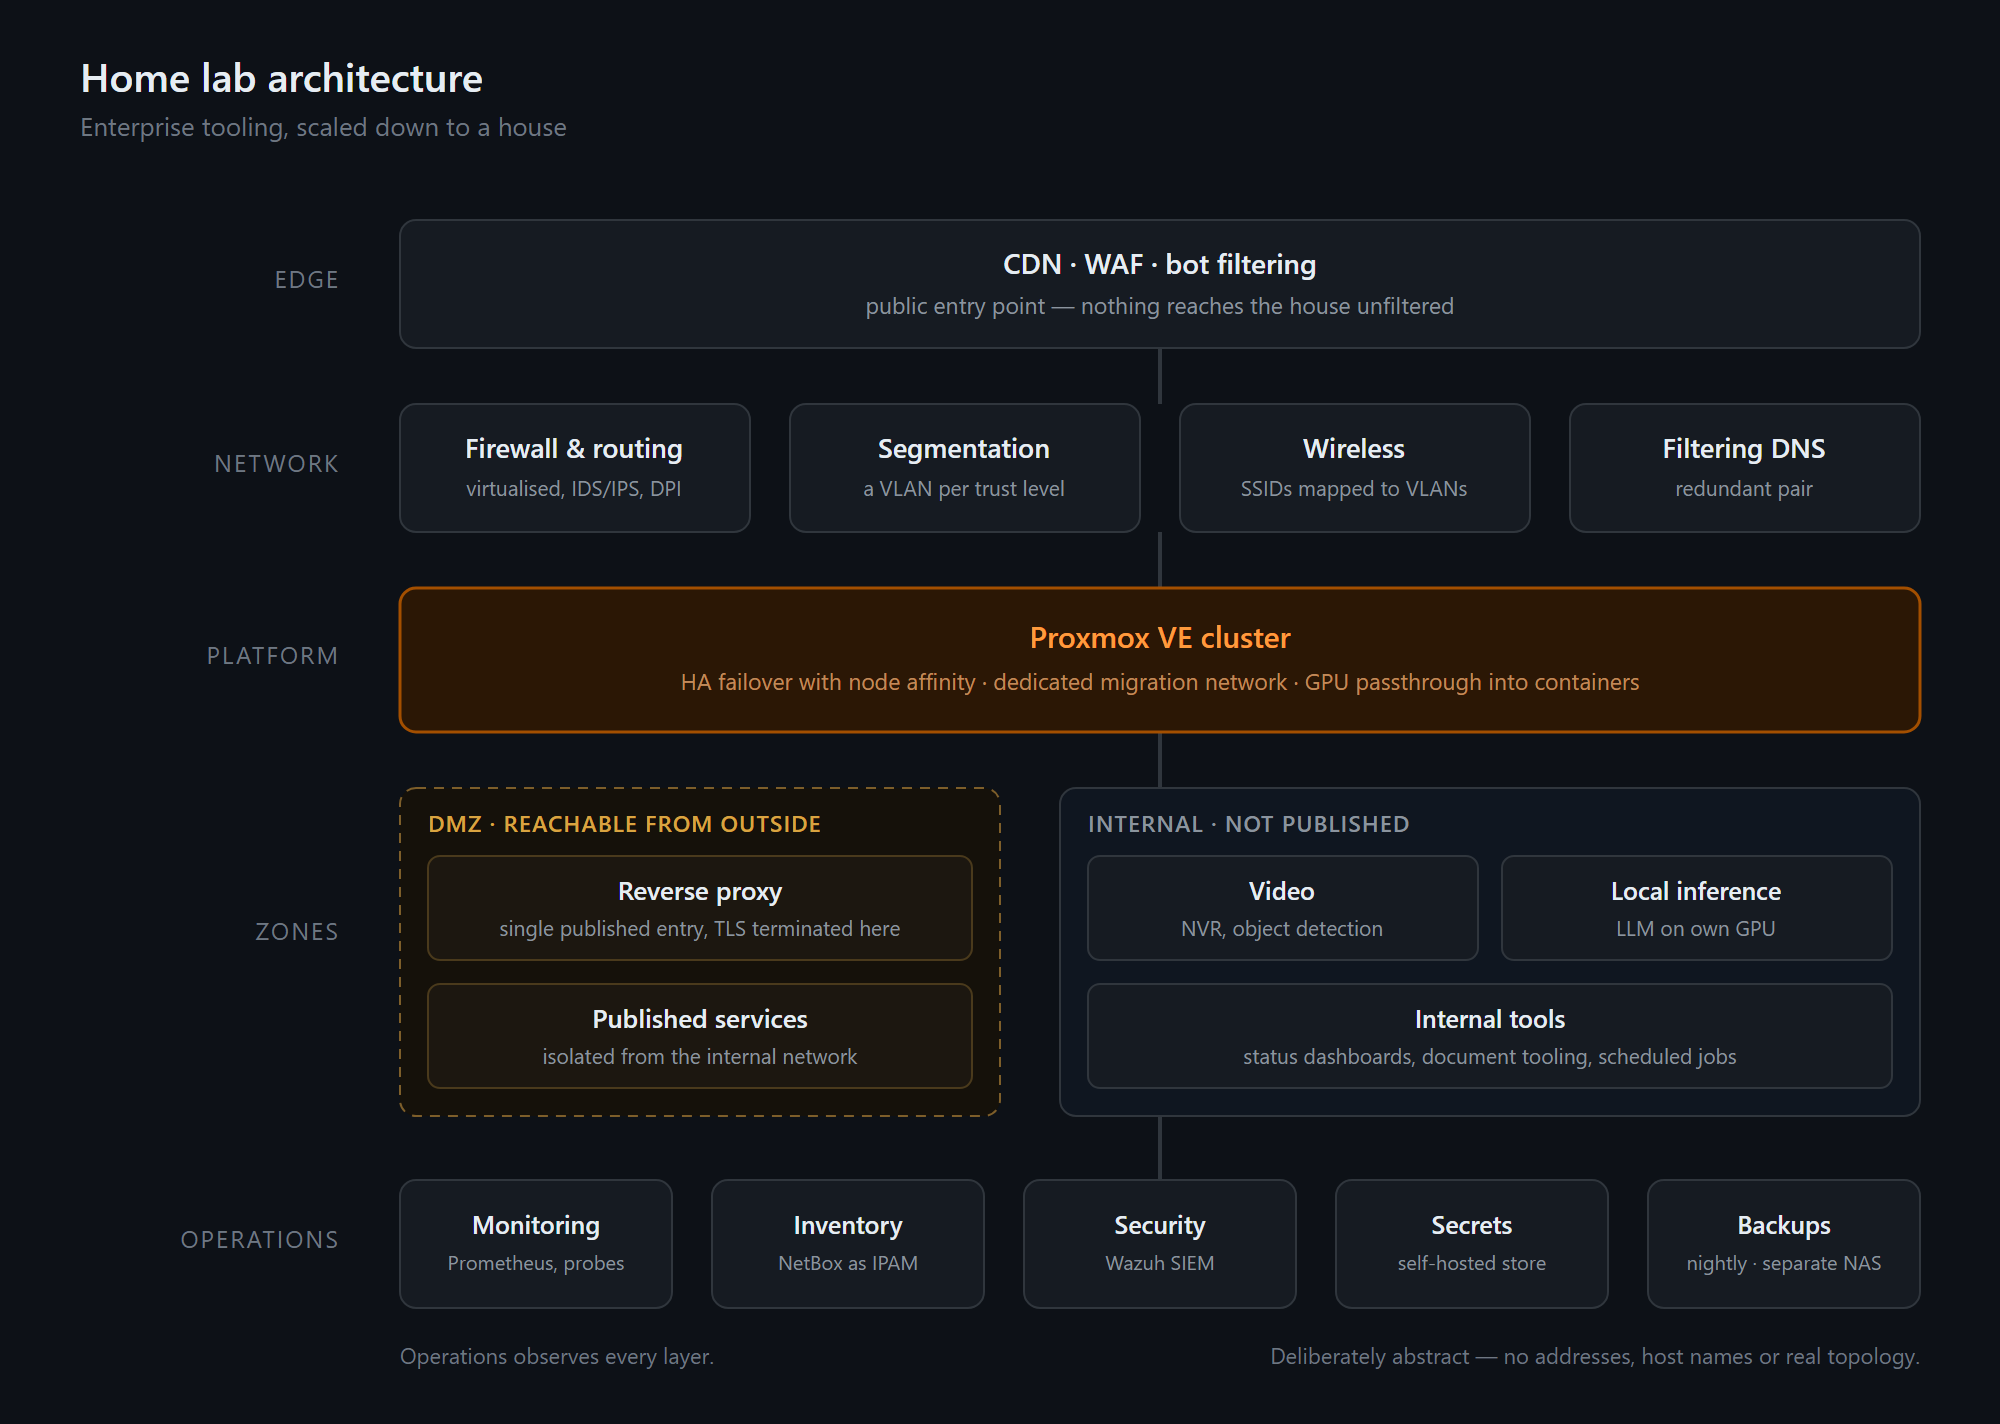
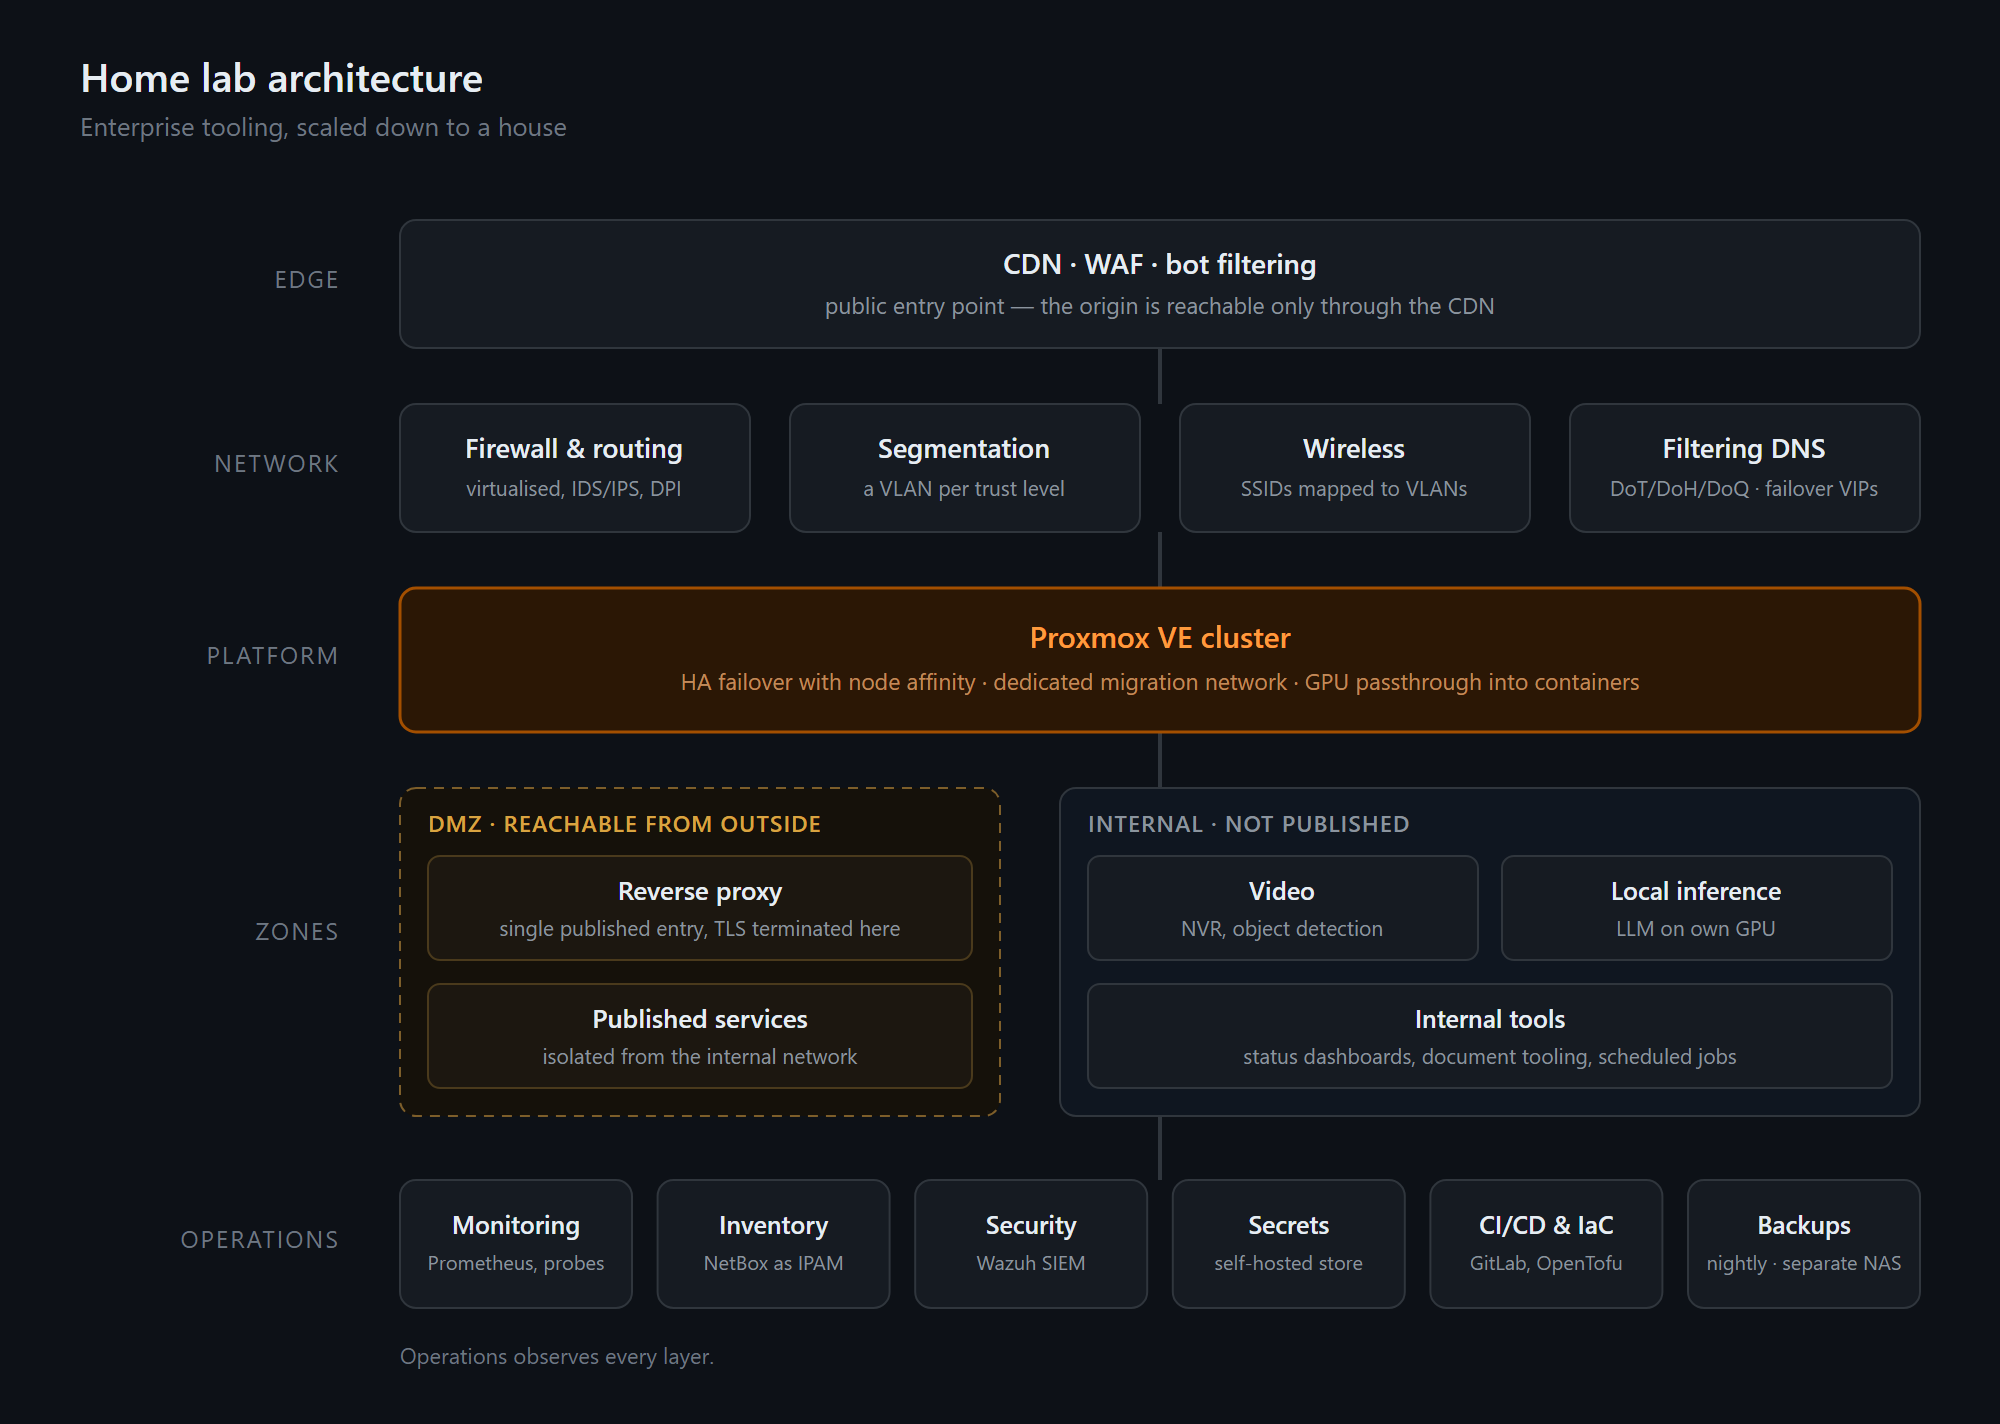
README: Hobby-zum-Beruf-Einstieg, GitLab CI und OpenTofu ergaenzt, DNS als verschluesselt/redundant; Diagramm nachgezogen (Origin nur ueber CDN, DNS-VIPs, CI/CD & IaC), Fusszeile entfernt

diff --git a/README.md b/README.md
@@ -1,8 +1,12 @@
 ## Marvin Z
 
-Long-time systems administrator, with time spent in IT security and site
-reliability engineering along the way. Infrastructure automation, monitoring,
-and making things observable — at work and at home.
+Home lab enthusiast who turned the hobby into a career. I was running servers at
+home long before anyone paid me for it; today I'm a systems administrator with a
+decade of site reliability engineering and IT security behind me — and the lab is
+still where I try things first.
+
+Infrastructure automation, monitoring, and making things observable — at work and
+at home. Same tools, same standards, smaller blast radius.
 
 I prefer open source wherever it does the job, and I try to give back rather than
 just consume: fixes and features go upstream instead of living in a private fork,
@@ -17,14 +21,14 @@ before they go upstream — that repo is the beta channel if you want to try the
 | | |
 |---|---|
 | **Currently** | SAP Basis (HANA, S/4HANA, ERP) · Prometheus · Grafana · Microsoft SQL Server · PowerShell · Python · Bash |
-| **Home lab** | Proxmox VE · Home Assistant · Wazuh · NetBox · Zigbee / MQTT · Frigate · firewall with IDS/IPS · filtering DNS |
+| **Home lab** | Proxmox VE · Home Assistant · Wazuh · NetBox · GitLab CI · OpenTofu · Zigbee / MQTT · Frigate · firewall with IDS/IPS · encrypted filtering DNS |
 | **Also experienced with** | Kubernetes · Google Kubernetes Engine · Terraform · Google Cloud Platform · CI/CD · SRE practices · information security · vulnerability management |
 
 ### The home lab
 
 <picture>
   <source media="(prefers-color-scheme: dark)" srcset="homelab-dark.png">
-  <img alt="Home lab architecture: edge, perimeter, Proxmox platform, DMZ and internal zones, operations" src="homelab-light.png">
+  <img alt="Home lab architecture: edge, network, Proxmox platform, DMZ and internal zones, operations" src="homelab-light.png">
 </picture>
 
 A multi-node Proxmox VE cluster with HA failover, a virtualised firewall routing a
@@ -36,8 +40,10 @@ Enterprise tooling, scaled down to a house:
 - **NetBox** as IPAM and inventory, feeding Prometheus service discovery automatically
 - **Elasticsearch** behind the firewall's deep packet inspection reporting
 - **A self-hosted secret store**, so no credentials sit in config files
+- **Self-hosted GitLab with CI on every push** — documentation, playbooks and infrastructure code for the lab live in one repository; pipelines lint, validate and secret-scan before anything merges
+- **Infrastructure as code** — the DNS cluster is managed with OpenTofu, existing state imported rather than rebuilt
 - **Cluster HA failover** with node affinity rules, over a dedicated migration network
 - **GPUs passed through into containers** for camera object detection and local LLM inference
-- **Redundant filtering DNS**, so name resolution survives a node going down
+- **Encrypted, redundant DNS** — DoT/DoH/DoQ with failover VIPs, so name resolution survives a node going down
 
 Most of what I publish here started as something I needed there first.
